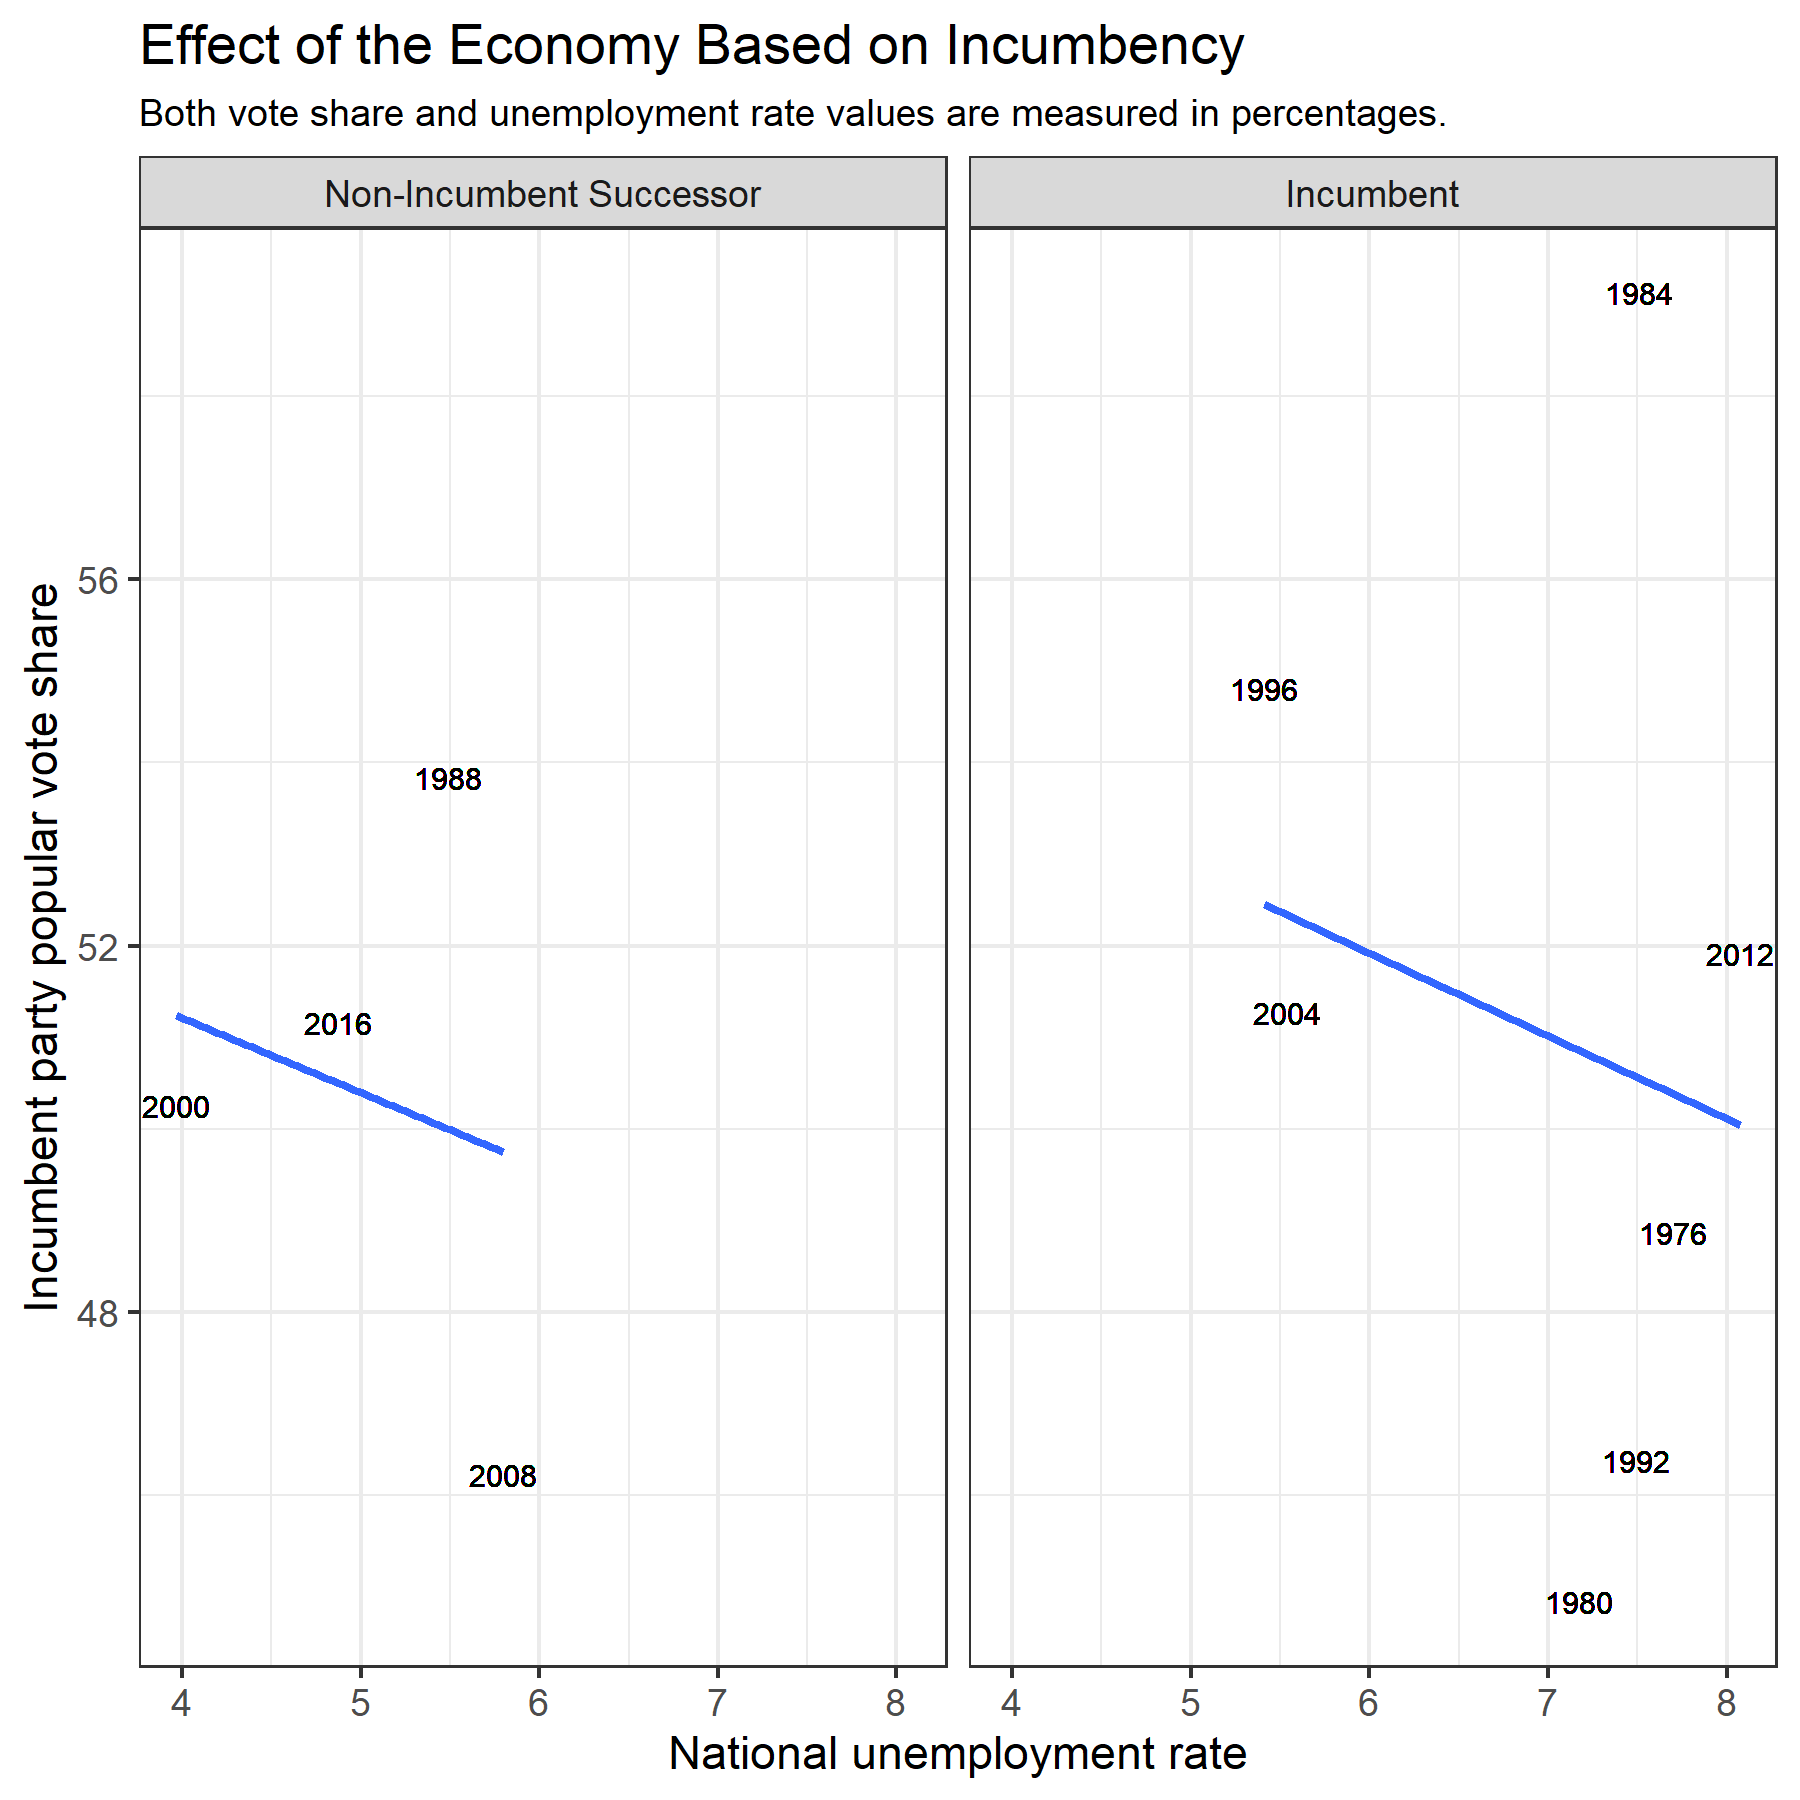
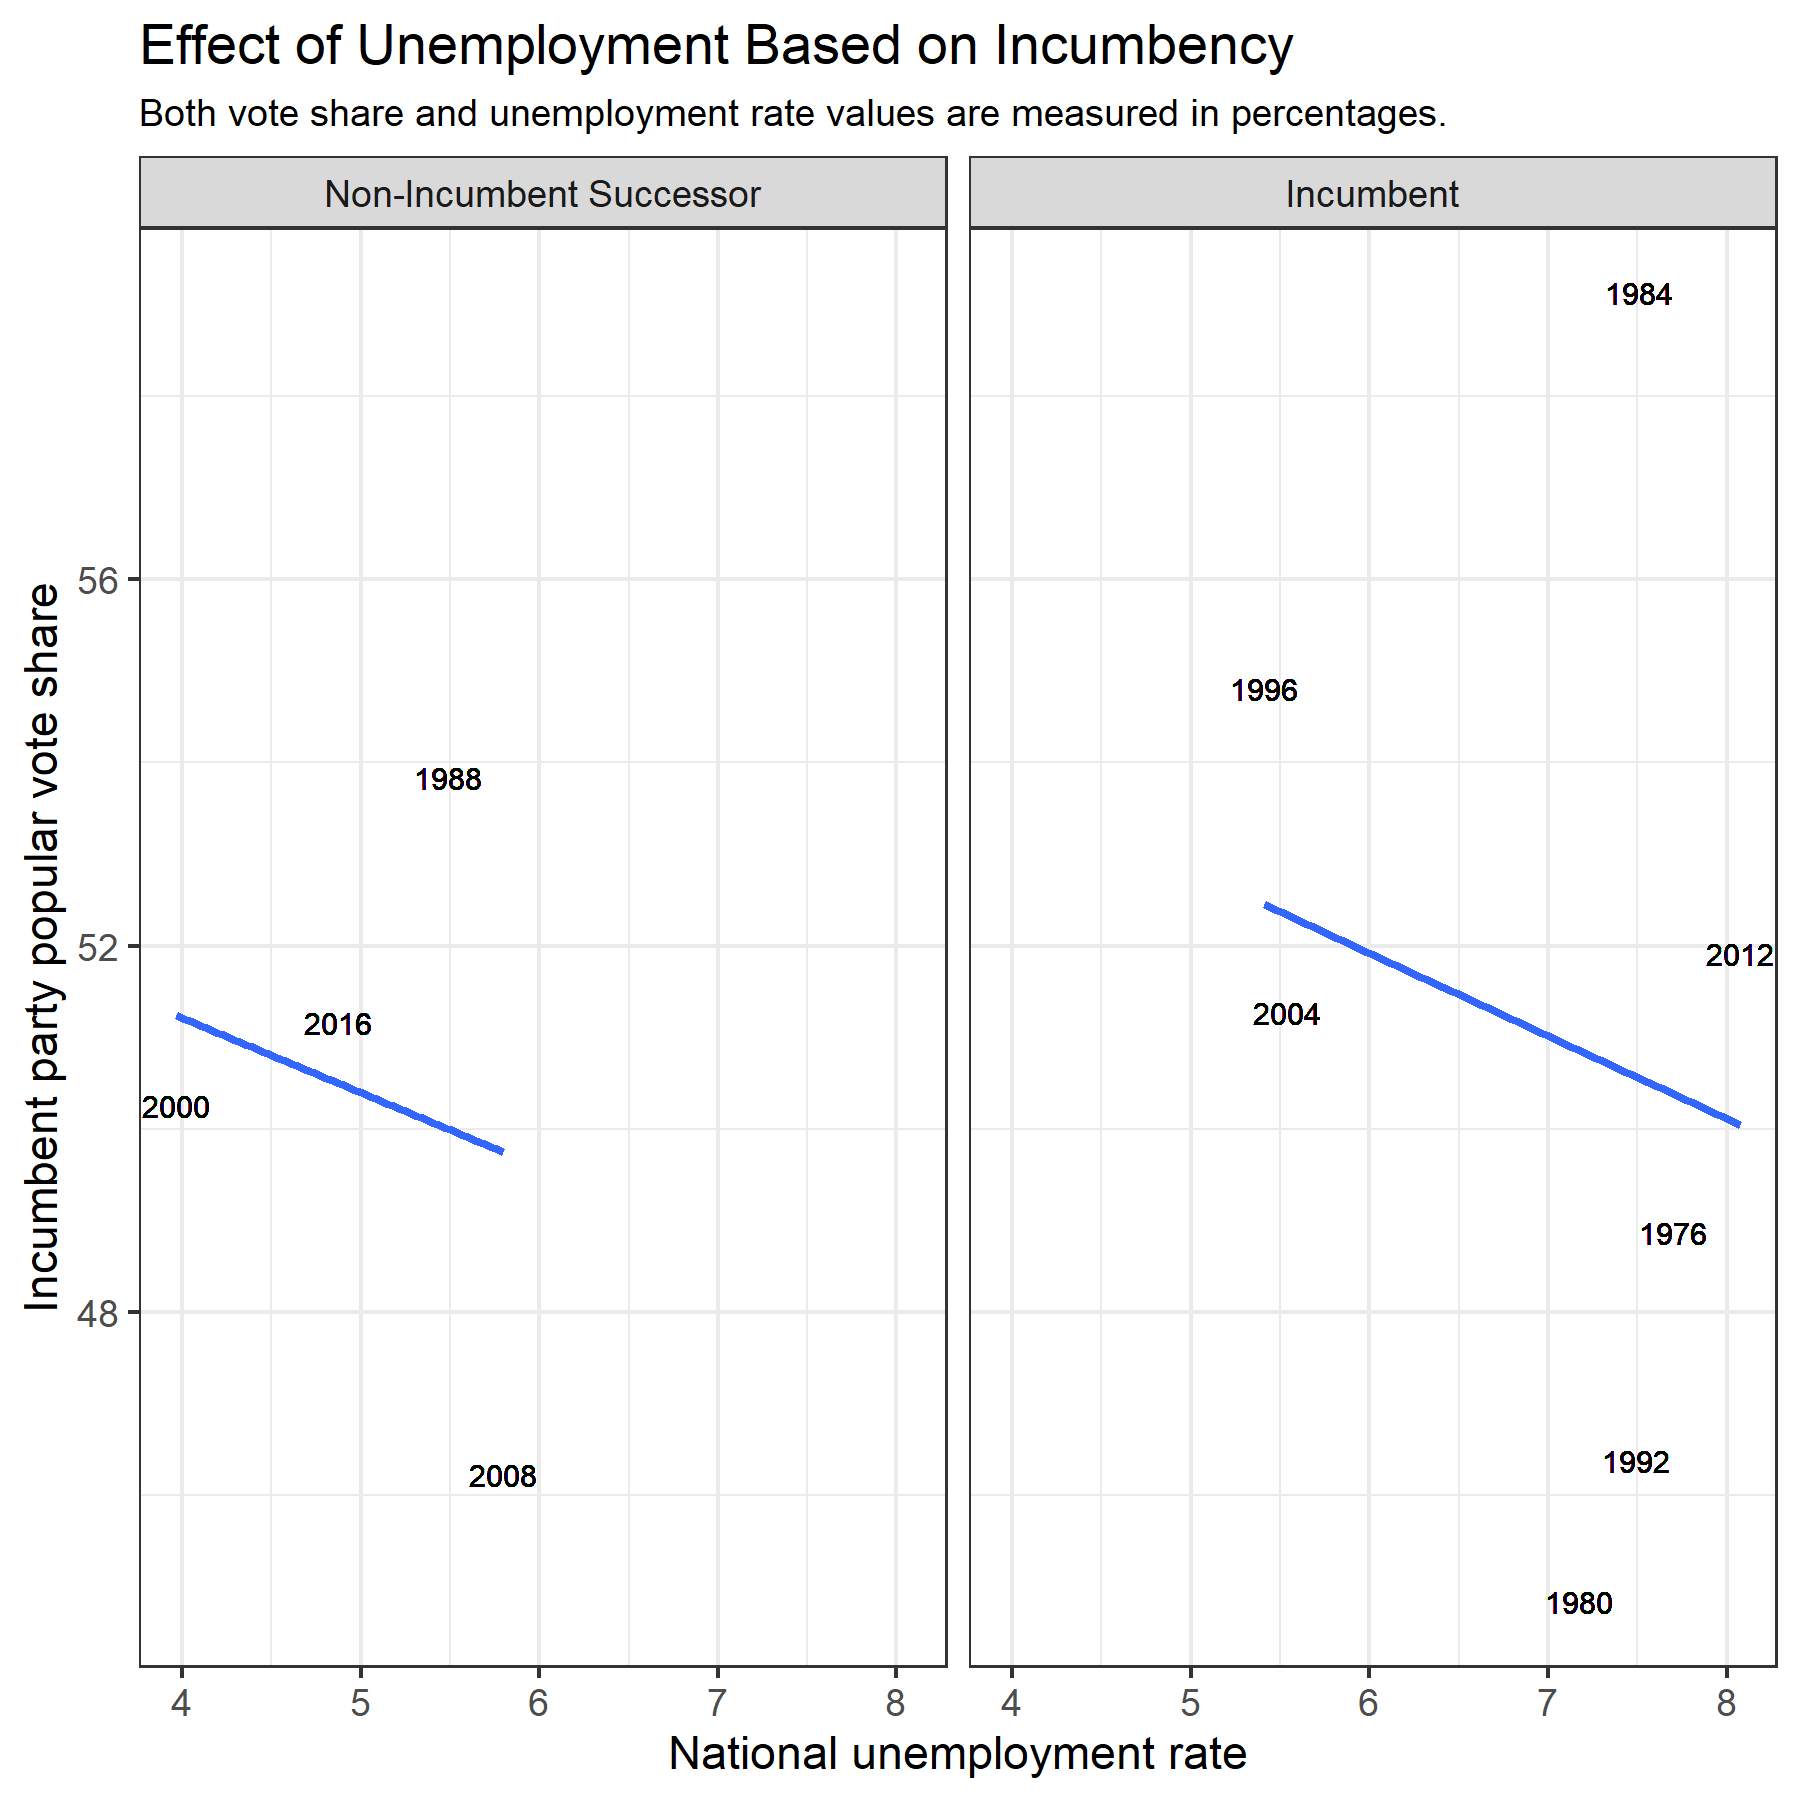
thought this was already committed, but trying again

Changed region(s): [[0.1867, 0.0, 0.7156, 0.0622]]

diff --git a/posts/02-blog.md b/posts/02-blog.md
@@ -1,0 +1,51 @@
+# Voting With Your Wallet: When and How Do Americans Engage in Economic Voting?
+
+Going into an election cycle, one of the most important questions posed by pundits is **how the state of the economy will impact the election**. It is generally believed that various aspects of the economy such as GDP growth, average real disposable income, and unemployment rates all have a role to play in election outcomes.
+
+But if we believe that voters do tend to “vote with their wallets,” this raises a number of questions. First of all, **do these measures of an economy have the same impact when a presidential candidate is an incumbent as when the candidate is a non-incumbent party successor?** If there seems to be a stronger correlation between economic predictors and an incumbent party’s popular vote share when the candidate is an incumbent rather than a successor, this could indicate that voters attribute economic success to individual candidates rather than parties as a whole.
+
+Another interesting question is **whether variables have changed in their predictive power over time.** Has the economy become a better or worse predictor of election results over the past 50 years, or has it remained relatively the same? 
+
+To investigate these questions, there are a wide variety of possible economic predictors that we could include. However, for today I have chosen to only look at unemployment’s impact on elections. The unemployment rate is one of the most heavily discussed topics on the campaign trail. Former Vice President Biden has [blamed President Trump](https://www.usatoday.com/story/news/politics/2020/06/05/joe-biden-slams-trump-spiking-ball-despite-high-unemployment/3153356001/) for not responding strongly enough to rising unemployment during the pandemic. At the same time, President Trump has [touted unemployment drops](https://www.politico.com/news/2020/06/05/may-unemployment-rate-coronavirus-302945) as sign of his administration’s ability to rally the economy. Considering how important unemployment seems to be to both candidates, I will only be exploring unemployment’s power as a predictor today.
+
+## Unemployment as a Predictor of Incumbent Party Vote Share
+
+![](../figures/overallincumbencyfx.png)
+
+The graphic shown above illustrates the correlation between national unemployment rates and the percentage of popular vote won by an incumbent party in presidential elections going back to 1976. A simple linear model explaining incumbent party vote share by national unemployment rates shows that there is a **slightly negative relationships between unemployment and incumbent vote share**. The model and graphic indicate that with every 1-percentage point increase in the amount of national unemployment, incumbent party vote share in a presidential election will decrease by approximately 0.24 percentage points. 
+
+While this relationship would generally be expected- higher levels of unemployment probably will not make voters more excited about voting for an incumbent party- **the strength of this relationship is called into question by very low R-squared values**. According to these R-squared values, only about 0.6% of the variation in incumbent vote share can be accounted for by this model. This calls into question the strength of unemployment alone as a predictor of electoral results.
+
+## Unemployment's Impact on Incumbent Candidates vs. Party Successors
+
+Another question I was curious to investigate was **whether unemployment rates had the same impacts on incumbent candidates and non-incumbent party successors.** To visualize this difference, I created another graphic, this time distinguishing between races with incumbent candidates seeking re-election and non-incumbent party successors.
+
+![](../figures/successorvsincumbent.png)
+
+According to the graphic and some summary statistics calculated for each linear model, the **impact of unemployment is roughly the same for both incumbent candidates and non-incumbent successors**. The effect on incumbents is just slightly stronger. With every 1-percentage point increase in unemployment, there is a correlated decrease of about 0.90 percentage points for incumbent candidates, but only about a 0.81 percentage point decrease for non-incumbents. However, this is a relatively minimal distinction, and yet again the **R-squared values found for both models are very small**. This tells us that neither model is particularly good at explaining the variation in incumbent party's vote share.
+
+## Unemployment's Predictive Power Over Time
+
+Though unemployment does not appear to be the best predictor of election outcomes as evidenced by the analysis above, I was interested in exploring whether unemployment has been a better predictor of certain years than others. The animation below shows individual states' various unemployment rates along with the percentage of the state's vote won by the incumbent party.
+
+![](../figures/unemploymentovertime.gif)
+
+Interestingly, in 6 out of 11 election years (a slim majority but a majority nonetheless!) the relationship between a state's vote share for the incumbent party and that state's unemployment rate was positive. Thus, **in 6 election years since 1976, higher unemployment rates in individual states were actually correlated with higher vote shares within those states for the incumbent party.** It is important to note, however, that for the election years where this positive relationship was present, the relationship was sometimes very weak. 
+
+To explore this further, I selected election years from each decade that data was available and created models using national unemployment rates to explain incumbent vote share. The results of these regressions are displayed in the table below.
+
+![](../figures/unemploymenthuxtable.png)
+
+Out of these election years, we see some interesting variations in unemployment's relationship with election outcomes. In 1976 and 2008, there was a negative relationship between incumbent vote share and national unemployment rates, which is the relationship most people would generally expect to see between these variables. However, the table above shows that yet again, the R-squared values for these years are low. 
+
+1988 shows a weakly positive relationship between incumbent vote share and unemployment, but the R-squared value calculated reveals that only 1.6% of the variation in incumbent vote share is explained by this model. 
+
+1996 seems to be a bit of an anomaly because of the relatively strong positive relationship between incumbent vote share and unemployment. In addition to the strength of this relationship, the R-squared value- while still low- is comparatively much higher than previous years analyzed, with 17.7% of the variation in vote share explained.
+
+Considering the variability in unemployment's relationship with incumbent vote share, it **does not seem that unemployment is the greatest predictor of election results.** However, I was still interested to see what a prediction based on unemployment and incumbent vote share since 1976 could reveal about the potential outcome of the 2020 election. The results of that prediction are shown in the table below.
+
+![](../figures/unemploymentpred.png)
+
+**According to this (very simplistic!) prediction of 2020 election outcomes based solely on unemployment, President Donald Trump would earn 50.26% of the popular vote.** This could be enough to scrape out a narrow victory. However, the 2.5% and 95% confidence intervals for this prediction estimate that **Trump's vote share in the election could be anywhere from about 39% to 62%. That margin is very wide and does not speak well to the predictive power of this model.**
+
+Though it appears that unemployment on its own may not be the best predictor of election outcomes, it is still a significant part of rhetoric on the campaign trails. Perhaps in combination with other economic factors such as GDP growth and real disposable income, models can use unemployment as one variable among others to more accurately predict election results.
